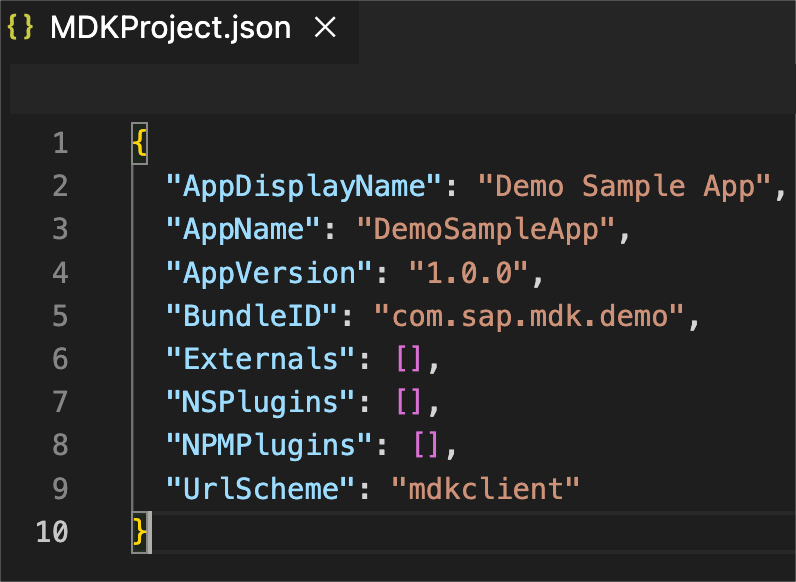
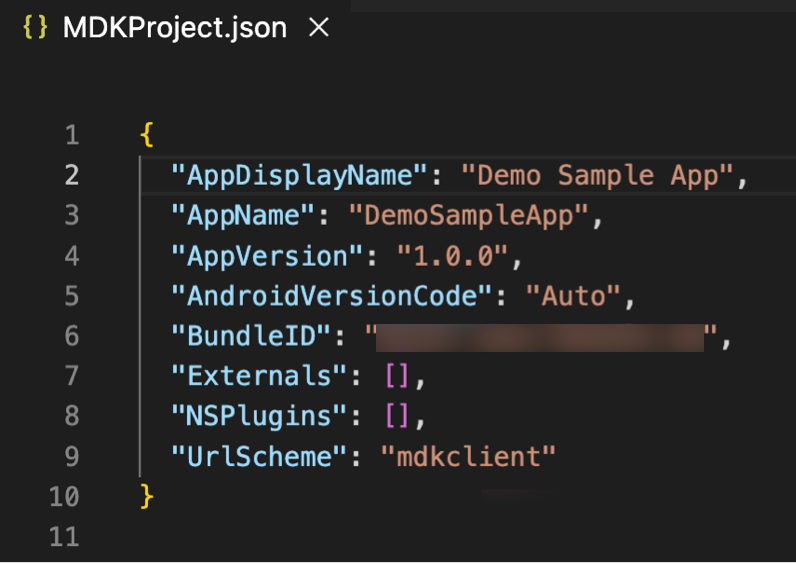
updated

diff --git a/tutorials/cp-mobile-dev-kit-nativescript-geolocation/cp-mobile-dev-kit-nativescript-geolocation.md b/tutorials/cp-mobile-dev-kit-nativescript-geolocation/cp-mobile-dev-kit-nativescript-geolocation.md
@@ -212,25 +212,26 @@ So far, you have learned how to build an MDK application in the SAP Business App
 
 In order to use the existing `NativeScript` plugin in MDK client, you will need to first add it in `.mdkproject` and then create your branded MDK client.
 
-1. Make sure that you have already completed steps 1 to 3 from [this](cp-mobile-dev-kit-build-client) tutorial.
+1. Make sure that you have already completed steps 1 to 3 from [Build Your Mobile Development Kit Client Using MDK SDK](cp-mobile-dev-kit-build-client) tutorial.
 
-2. Open `MDKProject.json` file and replace existing content with below:
+2. Open `MDKProject.json` file and replace existing content with below. Provide an appropriate value to the `BundleID`, it should be a unique identifier for your application. 
 
     ```JSON
     {
-      "App Display Name": "Demo Sample App",
-      "AppName": "DemoSampleApp",
+      "AppDisplayName": "Geolocation",
+      "AppName": "MDKGeolocation",
       "AppVersion": "1.0.0",
       "AndroidVersionCode": "Auto",
-      "BundleID": "Enter your Bundle ID",
+      "BundleID": "<Enter your bundle ID>",
       "Externals": ["@nativescript/geolocation"],
-      "NSPlugins": ["@nativescript/geolocation@8.0.0"],
-      "UrlScheme": "mdkclient"
+      "NSPlugins": ["@nativescript/geolocation"],
+      "UrlScheme": "mdkgeolocation"
     }
     ```
 
 <!-- border -->![MDK](img-6.1.png)
 
+3. 
 
 ### Add googlePlayServicesVersion and Permission in App Resources Merge folder(Required only for Android client)
 
@@ -287,15 +288,12 @@ With [Google Play services](https://developers.google.com/android/guides/overvie
     ```
 
 
-
-
-
 ### Create & Run the MDK client
 
 
 [OPTION BEGIN [Android]]
 
-1. Create your MDK client either using MDK SDK by following the steps 4 & 5 from [this](cp-mobile-dev-kit-build-client) tutorial OR using SAP Cloud Build Service by following [this](cp-mobile-dev-kit-cbs-client) tutorial and run it in your device.
+1. Create your MDK client either using MDK SDK by following the steps 4 & 5 from [Build Your Mobile Development Kit Client Using MDK SDK](cp-mobile-dev-kit-build-client) tutorial OR using SAP Mobile Services Cloud Build by following [Build Your Mobile Development Kit Client Using Cloud Build Service](cp-mobile-dev-kit-cbs-client) tutorial and run it in your device.
 
 2. After you have accepted the app update, allow your app to access your location.
 
@@ -309,7 +307,7 @@ With [Google Play services](https://developers.google.com/android/guides/overvie
 
 [OPTION BEGIN [iOS]]
 
-1. Create your MDK client either using MDK SDK by following the steps 4 & 5 from [this](cp-mobile-dev-kit-build-client) tutorial OR using SAP Cloud Build Service by following [this](cp-mobile-dev-kit-cbs-client) tutorial.
+1. Create your MDK client either using MDK SDK by following the steps 4 & 5 from [Build Your Mobile Development Kit Client Using MDK SDK](cp-mobile-dev-kit-build-client) tutorial OR using SAP Mobile Services Cloud Build by following [Build Your Mobile Development Kit Client Using Cloud Build Service](cp-mobile-dev-kit-cbs-client) tutorial.
 
 2. After you have accepted the app update, allow your app to access your location.
 

diff --git a/tutorials/cp-mobile-dev-kit-build-client/cp-mobile-dev-kit-build-client.md b/tutorials/cp-mobile-dev-kit-build-client/cp-mobile-dev-kit-build-client.md
@@ -22,8 +22,8 @@ author_profile: https://github.com/jitendrakansal
 
   There are 3 options for mobile development kit client:
 
-  1. Install the SAP Mobile Services client from the public store which is meant for demo and development or learning purposes.
-  2. Use the Cloud Build feature in SAP Mobile Services to generate a MDK Client (details are in [this](cp-mobile-dev-kit-cbs-client) tutorial)
+  1. Install the SAP Mobile Services client from the public store which is meant for demo and development or learning purposes
+  2. [Use the Cloud Build feature in SAP Mobile Services to generate a MDK Client](cp-mobile-dev-kit-cbs-client) 
   3. Build a client on your local machine in your organization development environment using MDK SDK
 
 ## Intro
@@ -183,6 +183,8 @@ To use the SDK to generate a mobile development kit client, the first step is to
     >`AppDisplayName`: This is the name of the application on the home screen of the device.
 
     >`AppName`: This is the name of the folder where the client is created.
+
+     >`AndroidVersionCode`: The Android application version code. It accepts value 'Auto' or any positive integer value. If it is not defined, the default version code will be 1. For more details, [Android Application Version Code](https://help.sap.com/doc/f53c64b93e5140918d676b927a3cd65b/Cloud/en-US/docs-en/guides/getting-started/mdk/custom-client/branding-custom-client.html#android-application-version-code).
 
     >`BundleID`: It should be a unique identifier for your application. This controls if the client can be installed side by side with other applications on the device. Two applications with the same Bundle ID cannot be installed at the same time on a device. For iOS this is the Identifier `(AppID)` that is registered in Apple Developer account since that determines if the application can be installed alongside other applications. If the `XCode` project is set up to use _Automatically manage signing_ then when building, `XCode` will automatically generate a signing profile for the specified bundle id. Without matching them, trying to run the custom client in iOS device will result in failure. In Android, it is known as [application ID](https://developer.android.com/build/configure-app-module#set_the_application_id).
 

diff --git a/tutorials/cp-mobile-dev-kit-map-extension/cp-mobile-dev-kit-map-extension.md b/tutorials/cp-mobile-dev-kit-map-extension/cp-mobile-dev-kit-map-extension.md
@@ -101,7 +101,7 @@ This step includes creating the mobile development kit project in the editor.
 
 The extension control that you will be creating to extend the functionality of your app can be used as base controls by registering it using the MDK editor.
 
-1. Download [this](https://github.com/SAP-samples/cloud-mdk-tutorial-samples/blob/main/Images/map.png) image and save it locally. This image will be used as a display image on the page editor to represent the extension control.
+1. Download [Map](https://github.com/SAP-samples/cloud-mdk-tutorial-samples/blob/main/Images/map.png) image and save it locally. This image will be used as a display image on the page editor to represent the extension control.
 
 2. Drag & drop `map.png` file on **Images** folders.
 
@@ -535,7 +535,7 @@ For Android, you will pass the API key to the MDK client, there is no way public
     </manifest>
     ```
 
-5. Create your MDK client either using MDK SDK by following the step 4 from [this](cp-mobile-dev-kit-build-client) tutorial OR using SAP Cloud Build Service by following [this](cp-mobile-dev-kit-cbs-client) tutorial.
+5. Create your MDK client either using MDK SDK by following the step 4 from [Build Your Mobile Development Kit Client Using MDK SDK](cp-mobile-dev-kit-build-client) tutorial OR using SAP Cloud Build Service by following [Build Your Mobile Development Kit Client Using Cloud Build Service](cp-mobile-dev-kit-cbs-client) tutorial.
 
 
 ### Run the MDK Client

diff --git a/tutorials/cp-mobile-dev-kit-push-customclient/cp-mobile-dev-kit-push-customclient.md b/tutorials/cp-mobile-dev-kit-push-customclient/cp-mobile-dev-kit-push-customclient.md
@@ -278,7 +278,7 @@ Paste the downloaded `google-services.json` file to `/DemoSampleApp.mdkproject/A
 ### Create MDK client
 
 
-Follow step 4 from [this](cp-mobile-dev-kit-build-client) tutorial to create your branded MDK client.
+Follow step 4 from [Build Your Mobile Development Kit Client Using MDK SDK](cp-mobile-dev-kit-build-client) tutorial to create your branded MDK client.
 
 
 ### Run the MDK client
@@ -288,7 +288,7 @@ Follow step 4 from [this](cp-mobile-dev-kit-build-client) tutorial to create you
 
 [OPTION BEGIN [Android]]
 
-1. Follow step 5 from [this](cp-mobile-dev-kit-build-client) tutorial to create your branded MDK client.
+1. Follow step 5 from [Build Your Mobile Development Kit Client Using MDK SDK](cp-mobile-dev-kit-build-client) tutorial to create your branded MDK client.
 
 2. Once you accept the App update, a message should show **Push Notification registered**. Click **OK**.
 
@@ -318,7 +318,7 @@ Follow step 4 from [this](cp-mobile-dev-kit-build-client) tutorial to create you
 
 [OPTION BEGIN [iOS]]
 
-1. Follow step 5 from [this](cp-mobile-dev-kit-build-client) tutorial to create your branded MDK client.
+1. Follow step 5 from [Build Your Mobile Development Kit Client Using MDK SDK](cp-mobile-dev-kit-build-client) tutorial to create your branded MDK client.
 
 2. Once you accept the App update, you will also notice that it will first ask permission to display notifications.
 

diff --git a/tutorials/cp-mobile-dev-kit-slider-extension/cp-mobile-dev-kit-slider-extension.md b/tutorials/cp-mobile-dev-kit-slider-extension/cp-mobile-dev-kit-slider-extension.md
@@ -80,7 +80,7 @@ In this tutorial, you will create a Slider extension via `NativeScript` (in Type
 
 The extension control that you will be creating to extend the functionality of your app can be used as base controls by registering it using the MDK editor.
 
-1. Download [this](https://github.com/SAP-samples/cloud-mdk-tutorial-samples/blob/main/Images/slider.png) image and save it locally. This image will be used as a display image on the page editor to represent the extension control.
+1. Download [Slider](https://github.com/SAP-samples/cloud-mdk-tutorial-samples/blob/main/Images/slider.png) image and save it locally. This image will be used as a display image on the page editor to represent the extension control.
 
 2. Drag & drop `slider.png` file on **Images** folders.
 

diff --git a/tutorials/cp-mobile-dev-kit-annotations/cp-mobile-dev-kit-annotations.md b/tutorials/cp-mobile-dev-kit-annotations/cp-mobile-dev-kit-annotations.md
@@ -45,7 +45,7 @@ You can also check out more information on the Fiori elements [List Report](http
 
 Sample backend in SAP Mobile Services provides annotation functionality for **Products**. If you add annotation path in given backend endpoint, the same annotation information can be leveraged by MDK editor to generate related CRUD pages.
 
-Make sure you have already configured an app in Mobile Services cockpit and have added Sample service as per step 3 in [this](cp-mobile-dev-kit-ms-setup) tutorial.
+Make sure you have already configured an app in Mobile Services cockpit and have added Sample service as per step 3 in [Set Up Initial Configuration for an MDK App](cp-mobile-dev-kit-ms-setup) tutorial.
 
 1. In SAP MDK Demo App configuration, click **Mobile Connectivity**.
 

diff --git a/tutorials/cp-mobile-dev-kit-quick-start/cp-mobile-dev-kit-quick-start.md b/tutorials/cp-mobile-dev-kit-quick-start/cp-mobile-dev-kit-quick-start.md
@@ -68,7 +68,7 @@ This step includes creating the mobile development kit project in the editor.
     |----|----|
     | `Data Source` | Select `Mobile Services` from the dropdown |
     | `Mobile Services Landscape` | Select `standard` from the dropdown |
-    | `Application Id` | Select `com.sap.mdk.demo` from the dropdown (this app was configured as per [this](cp-mobile-dev-kit-ms-setup) tutorial) |
+    | `Application Id` | Select `com.sap.mdk.demo` from the dropdown (this app was configured as per [Set Up Initial Configuration for an MDK App](cp-mobile-dev-kit-ms-setup) tutorial) |
     | `Destination` | Select `SampleServiceV2` from the dropdown |
     | `Enter a path to service` | Leave it as it is |
     | `Enable Offline` | It's enabled by default |

diff --git a/tutorials/cp-mobile-dev-kit-cbs-client/cp-mobile-dev-kit-cbs-client.md b/tutorials/cp-mobile-dev-kit-cbs-client/cp-mobile-dev-kit-cbs-client.md
@@ -226,7 +226,7 @@ To enable your app for push notifications, you need to carry out the following t
 ### Compress your .mdkproject (Required for a customized client)
 
 
-If you haven't created your local `.mdkproject`, have a look at step 3 from [this](cp-mobile-dev-kit-build-client) tutorial.
+If you haven't created your local `.mdkproject`, have a look at step 3 from [Build Your Mobile Development Kit Client Using MDK SDK](cp-mobile-dev-kit-build-client) tutorial.
 
 Compress your `.mdkproject` folder, the resulting zip file will be used to create a build job for a customized Mobile Development Kit client in Mobile Services cockpit.
 

diff --git a/tutorials/cp-mobile-dev-kit-push/cp-mobile-dev-kit-push.md b/tutorials/cp-mobile-dev-kit-push/cp-mobile-dev-kit-push.md
@@ -45,7 +45,7 @@ You may clone an existing metadata project from [GitHub repository](https://gith
 
     >Predefined push is supported only for the MDK (SAP Mobile Services client) public store client.
 
-    >If you want to enable push notification in your custom MDK client then follow [this](cp-mobile-dev-kit-push-customclient) tutorial.
+    >If you want to enable push notification in your custom MDK client then follow [Enable Push Notifications in Your Branded MDK Client](cp-mobile-dev-kit-push-customclient) tutorial.
 
 
 

diff --git a/tutorials/cp-mobile-dev-kit-cert-auth/cp-mobile-dev-kit-cert-auth.md b/tutorials/cp-mobile-dev-kit-cert-auth/cp-mobile-dev-kit-cert-auth.md
@@ -90,7 +90,7 @@ To enable certificate based authentication, you need to modify **Redirect URL** 
 
 >Make sure you are choosing the right development platform tab above.
 
-Make sure that you have already completed steps 1 & 2 from [this](cp-mobile-dev-kit-build-client) tutorial.
+Make sure that you have already completed steps 1 & 2 from [Build Your Mobile Development Kit Client Using MDK SDK](cp-mobile-dev-kit-build-client) tutorial.
 
 [OPTION BEGIN [Mac]]
 
